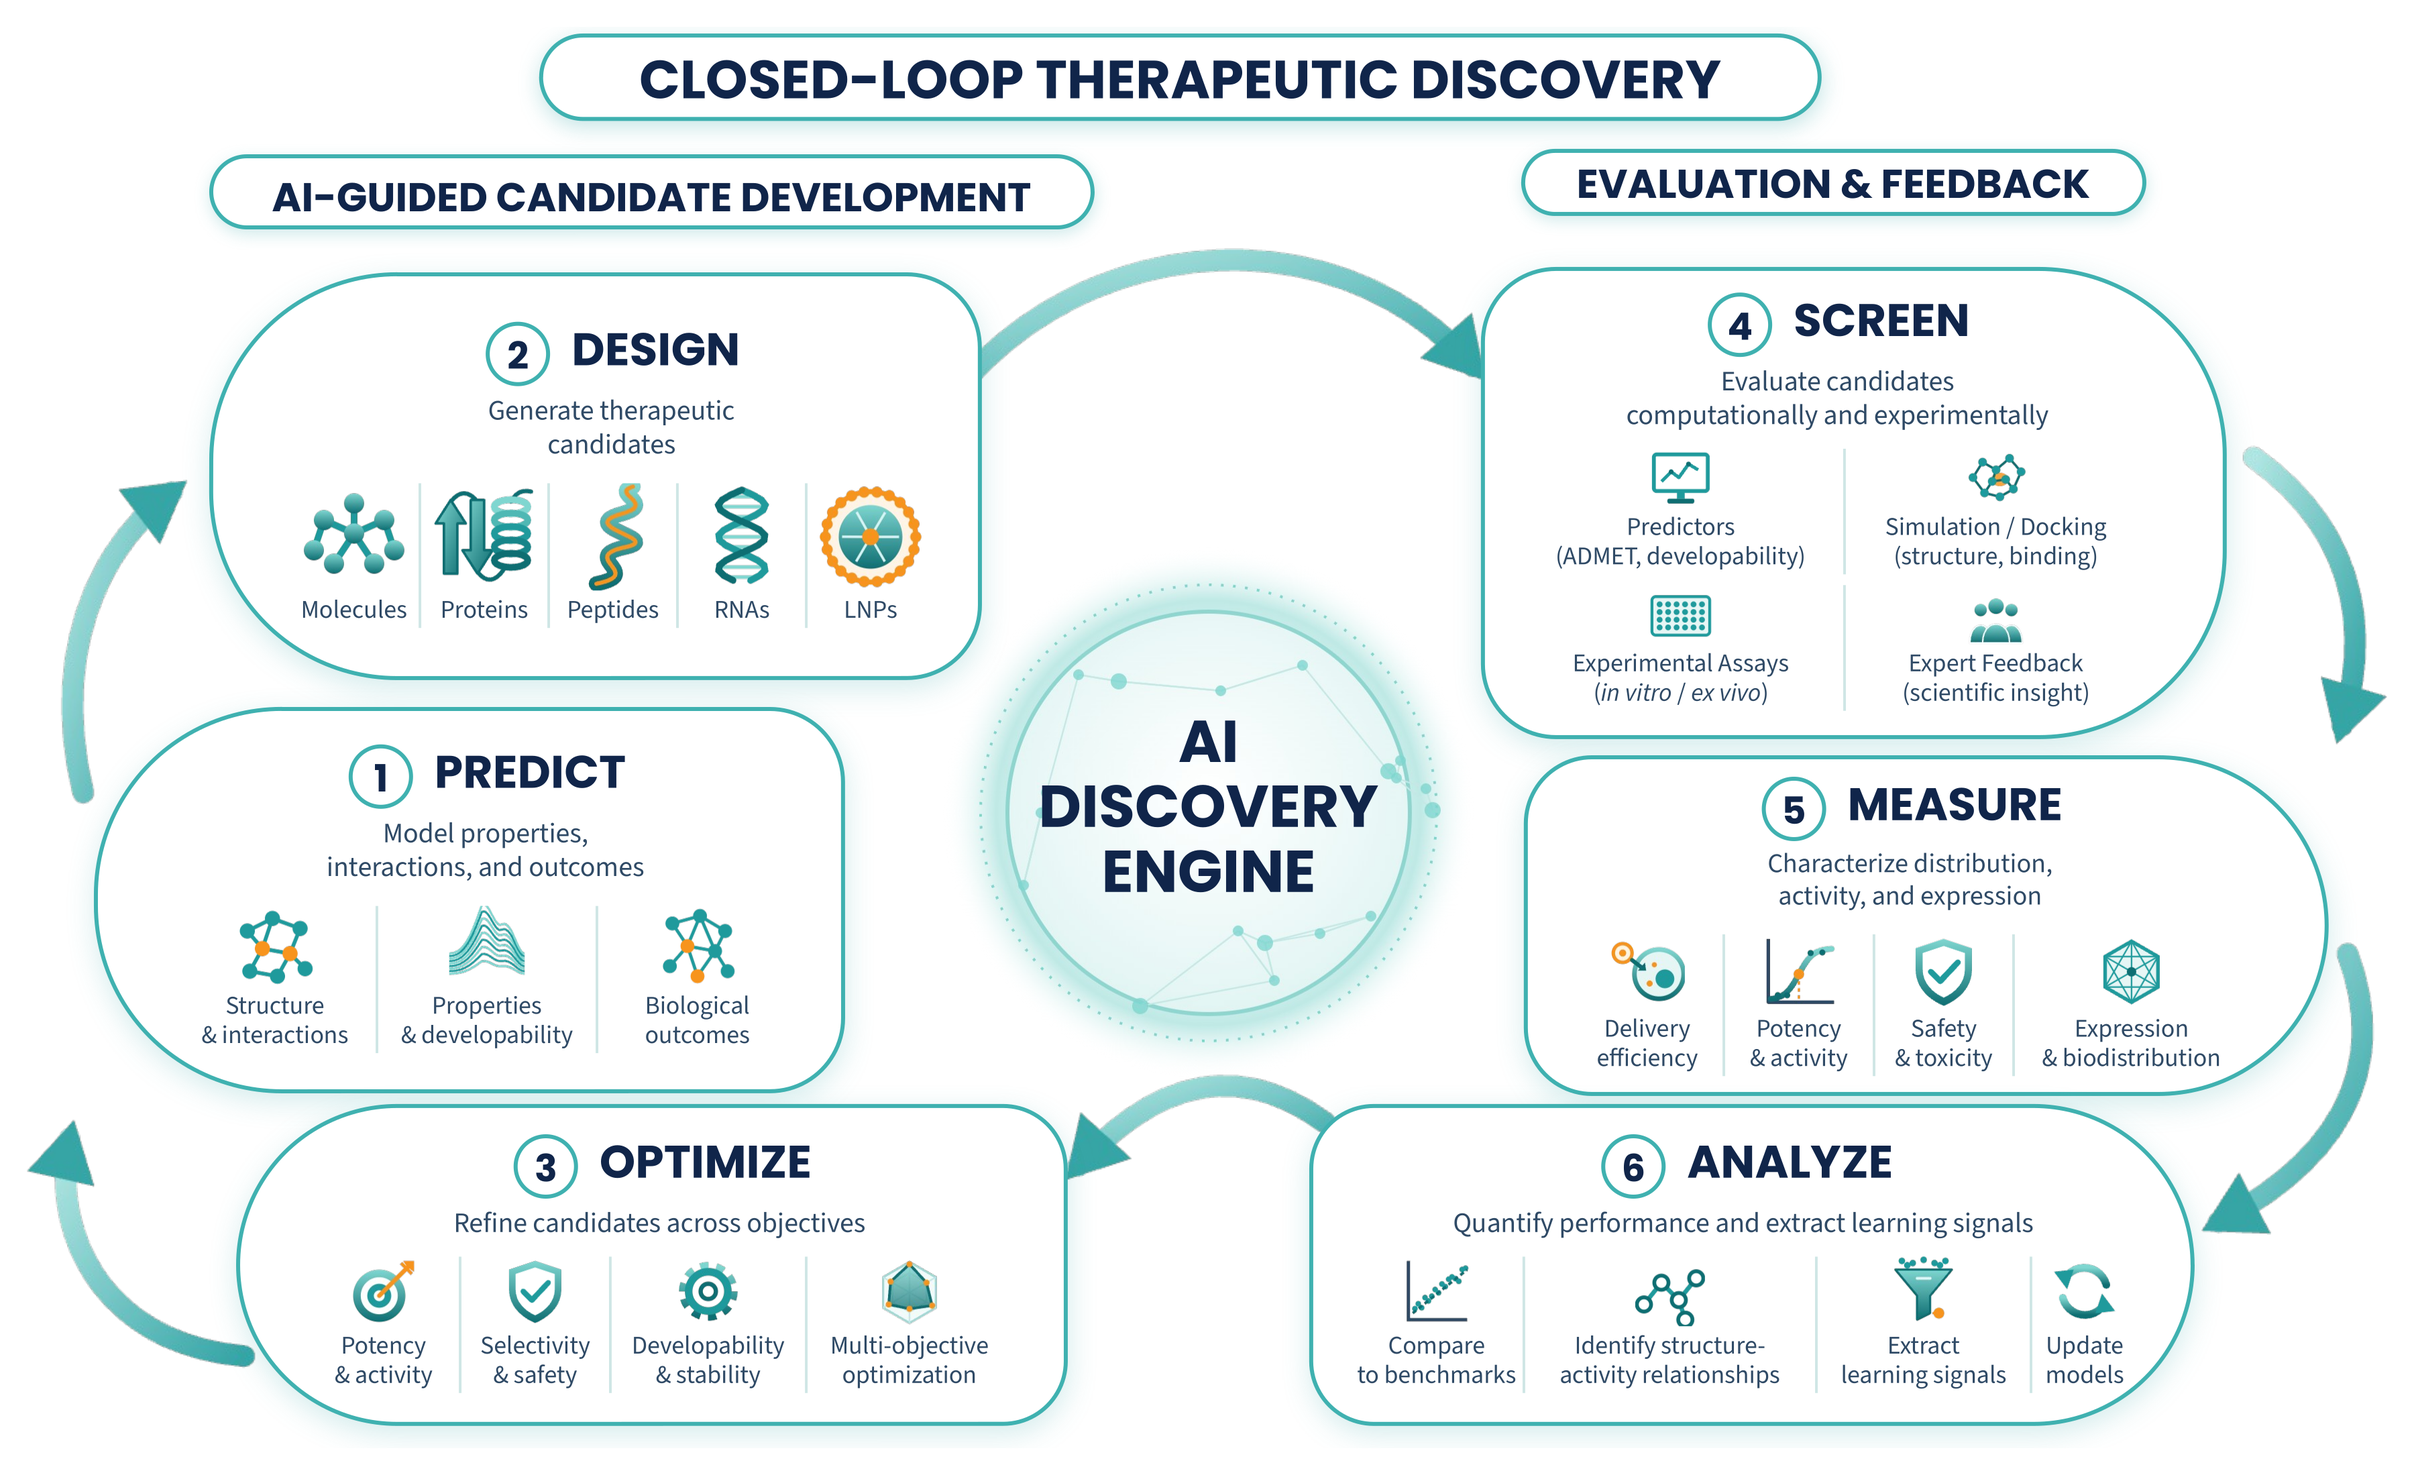
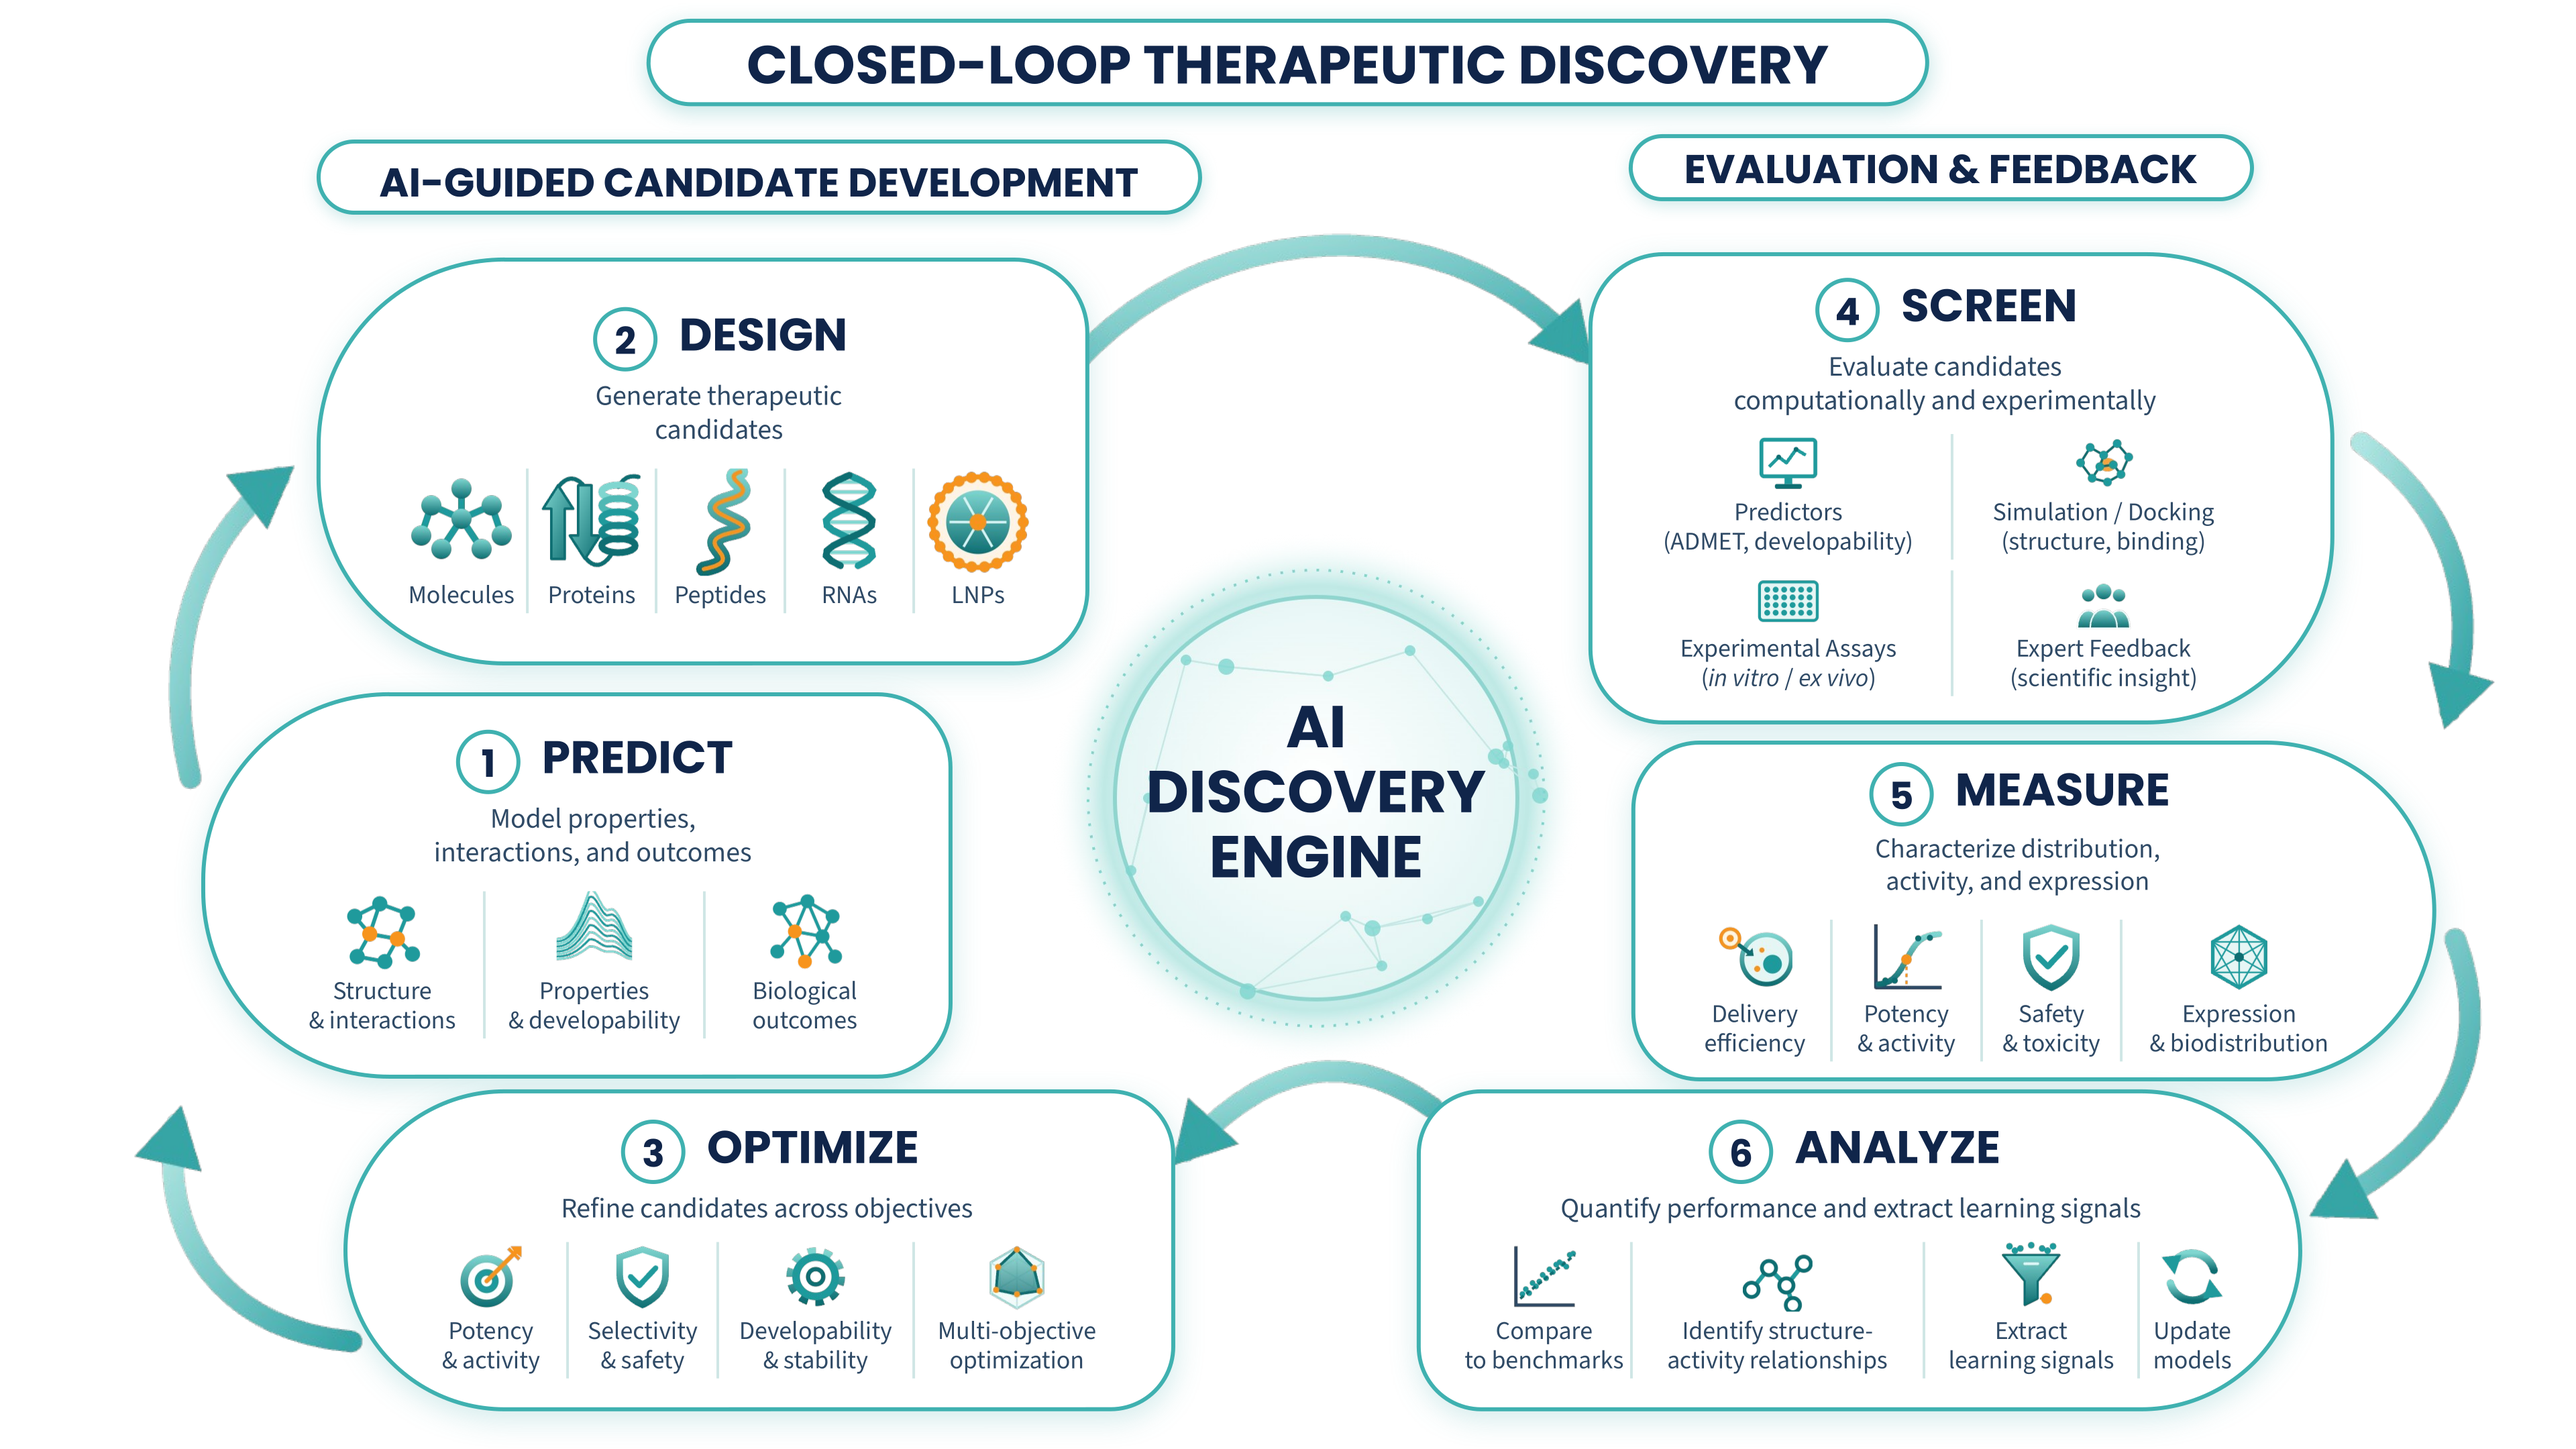
Deploying to gh-pages from @ alvinchanlabntu/alvinchanlabntu.github.io@9470a592dd795901a815a029b9fcb521b36f68a4 🚀

diff --git a/index.html b/index.html
@@ -469,7 +469,11 @@
 
 <h2 id="research-at-the-interface-of-ai-and-medicine">Research at the interface of AI and medicine</h2>
 
-<div class="feature" data-contain="" style="--feature-image-ratio: 3720 / 1945;" data-stack="" data-text-first="" data-flat="">
+<div class="feature" data-contain="" style="--feature-image-ratio: 3840 / 2160;" data-flat="">
+  
+  <a href="/publications" class="feature-image" aria-label="AI-driven therapeutic discovery">
+    <img src="/images/home/ai-driven-therapeutic-discovery.png" loading="lazy" alt="AI-driven therapeutic discovery" onerror="this.src = '/images/fallback.svg'; this.onerror = null;">
+  </a>
   
     <div class="feature-text">
       
@@ -481,13 +485,9 @@
 
     </div>
   
-  <a href="/publications" class="feature-image" aria-label="AI-driven therapeutic discovery">
-    <img src="/images/home/ai-driven-therapeutic-discovery.png" loading="lazy" alt="AI-driven therapeutic discovery" onerror="this.src = '/images/fallback.svg'; this.onerror = null;">
-  </a>
-  
 </div>
 
-<div class="feature" data-flip="" data-contain="" style="--feature-image-ratio: 3599 / 2199;" data-flat="">
+<div class="feature" data-flip="" data-contain="" style="--feature-image-ratio: 3840 / 2160;" data-flat="">
   
   <a href="/publications" class="feature-image" aria-label="Closed-loop therapeutic discovery">
     <img src="/images/home/closed-loop-therapeutic-discovery.png" loading="lazy" alt="Closed-loop therapeutic discovery" onerror="this.src = '/images/fallback.svg'; this.onerror = null;">
